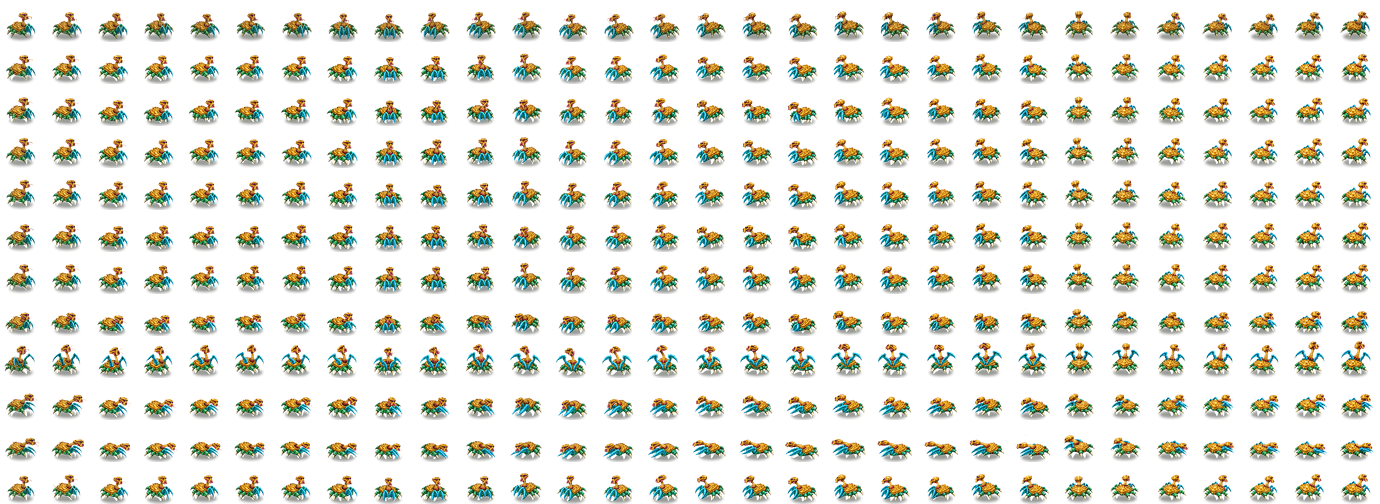
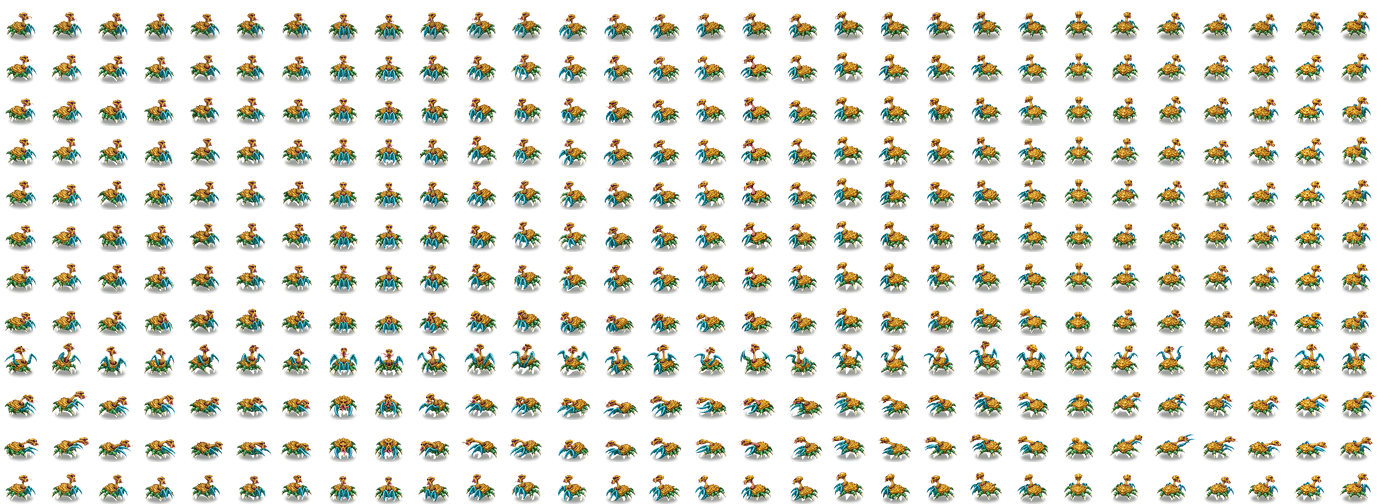
Fink anim: redo all headings with a facing rule and no neighbour reference so every frame faces like row 0
Claude-Session: https://claude.ai/code/session_01SMsyPA2gdtNVrQYtH9AZv3

diff --git a/web/tools/fink-anim-kit/mkref.py b/web/tools/fink-anim-kit/mkref.py
@@ -1,4 +1,4 @@
-import sys
+import sys,os
 from PIL import Image
 n=int(sys.argv[1])
 S=Image.open('D:/Coding/BYMR/wt-anim-fink/server/public/assets/monsters/fink-repaint@4x.png').convert('RGBA')
@@ -9,10 +9,20 @@ bg=Image.new('RGBA',c.size,(255,0,255,255)); bg.alpha_composite(c)
 bg.convert('RGB').save(f'h{n}/ref.png')
 deg=n*12
 PN=int(__import__('os').environ.get('PREVN',n-1))
-prev=(f"\nSecond reference prev.png: the finished pose sheet of the NEIGHBOURING heading ({PN*12} degrees), same layout. This heading is turned 12 degrees from it: keep the identical pose in each numbered cell (same stride phase, same attack phase, same proportions, same scale and painting), only rotate the creature 12 degrees to match ref.png.\n" if n>0 else "")
+import math
+def facing_text(d):
+    r=math.radians(d); x=math.cos(r); y=math.sin(r)  # x>0 screen right, y>0 toward viewer
+    h=('to screen-right' if x>0 else 'to screen-left'); v=('toward the viewer' if y>0 else 'away from the viewer')
+    if abs(x)<0.2 and y>0: return 'FACING THE VIEWER head-on (head and body square to the viewer, symmetric, not turned to either side)'
+    if abs(x)<0.2: return 'FACING AWAY from the viewer (seen from behind)'
+    if abs(y)<0.2: return 'in pure side view '+h
+    return f'in three-quarter view, turned {h} and {v} (mostly {"sideways" if abs(x)>abs(y) else "toward the viewer" if y>0 else "away"})'
+FT=facing_text(deg)
+STRICT=f"FACING RULE (most important): at heading {deg} degrees this Fink is {FT}, exactly as ref.png shows. In EVERY cell, walk cells AND attack cells (the wind-up with raised claws, the strike, the follow-through), the shell, the neck and the head point this same way as ref.png and the viewer sees the same side of the creature as in ref.png. The wind-up must NOT turn to face the viewer and must NOT turn sideways unless ref.png does so; only the neck rears up and the claws rise while the body keeps ref.png's orientation. Keep exactly the same number of green legs and of teal claws visible as ref.png in every cell (no leg or claw added, dropped or merged).\n"
+prev=(f"\nSecond reference prev.png: the finished pose sheet of the NEIGHBOURING heading ({PN*12} degrees), same layout. This heading is turned 12 degrees from it: keep the identical pose in each numbered cell (same stride phase, same attack phase, same proportions, same scale and painting), only rotate the creature 12 degrees to match ref.png.\n" if (n>0 and not os.environ.get('NOPREV')) else "")
 back=(n in (23,24))
 BACK="The head is seen from BEHIND at this heading: show NO face, no eyes-and-mouth side and no pink mouth tentacles in ANY cell, attack cells included; only what ref.png shows (the back of the gold head and neck, at most the tiny pink hint where ref.png has it). Attack = the neck lunges, with the face hidden.\n" if back else ""
-P=f"""Use the reference image ref.png (the exact creature: the painted game sprite of the Fink, shown at heading {deg} degrees; match its facing and part placement exactly) and portrait.png (the concept painting, style reference).{prev}
+P=f"""{STRICT}Use the reference image ref.png (the exact creature: the painted game sprite of the Fink, shown at heading {deg} degrees; match its facing and part placement exactly) and portrait.png (the concept painting, style reference).{prev}
 Heading convention: measured on the ground from screen right (east) turning clockwise seen from above: 0 = facing right, 90 = facing the viewer, 180 = facing left, 270 = facing away. Camera is a 3/4 isometric view. Copy ref.png's facing direction exactly in every cell; never mirror. The exact viewing angle of ref.png (how much of the body and which side of the head is visible) must be kept in EVERY cell, walk cells included; do not turn the creature unless ref.png says so. If prev.png is seen from a different angle than ref.png, ref.png decides.
 
 Create ONE image: an animation pose sheet of this same creature on flat pure magenta #FF00FF, no shadows, no ground, no text, no grid lines. Layout: 4 columns x 3 rows of equal cells, poses in reading order. The creature is the Fink: a flat spiky golden-yellow armoured shell body like a turtle/crab carapace covered in small gold spikes; a thick gold neck rising from the middle of the shell, topped by a gold wrinkled head with three glossy purple eyes and a pink fleshy mouth with pink tentacles; a ring of segmented green armoured legs ending in pale bone-coloured claws around the rim of the shell (count and place them exactly as ref.png shows), and two big curved teal-blue scythe claws at the front/shoulder (as ref.png shows, hidden behind the shell where ref.png hides them). Exactly one creature, exactly the parts that ref.png shows (same number of legs, same eyes, same blue claws, same colours), nothing added.
